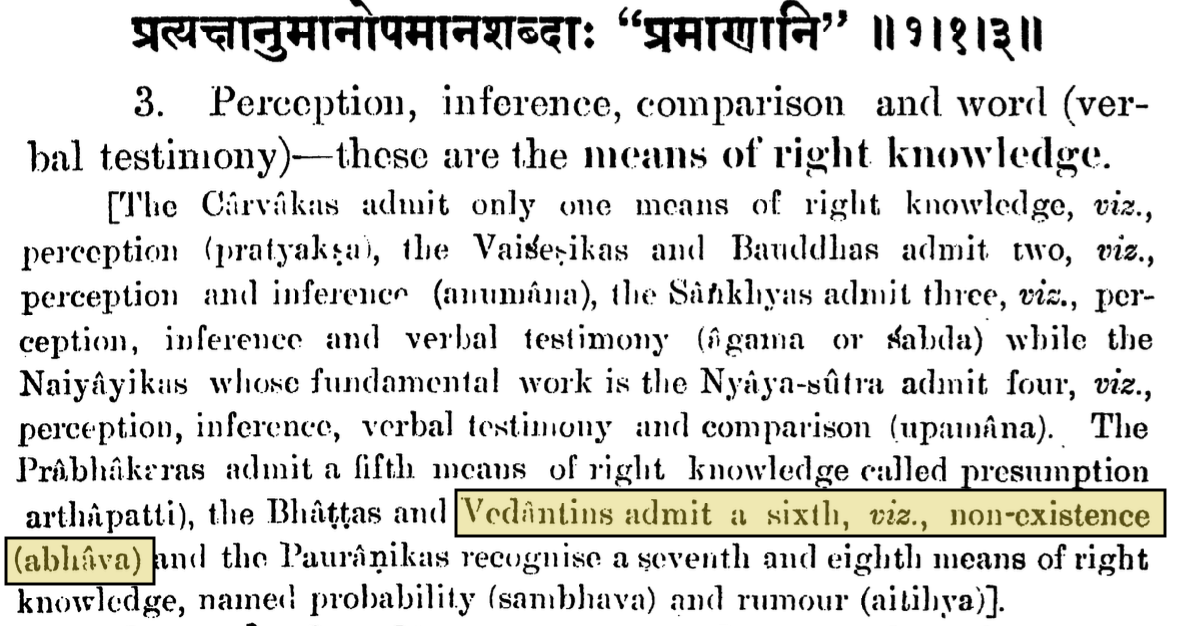
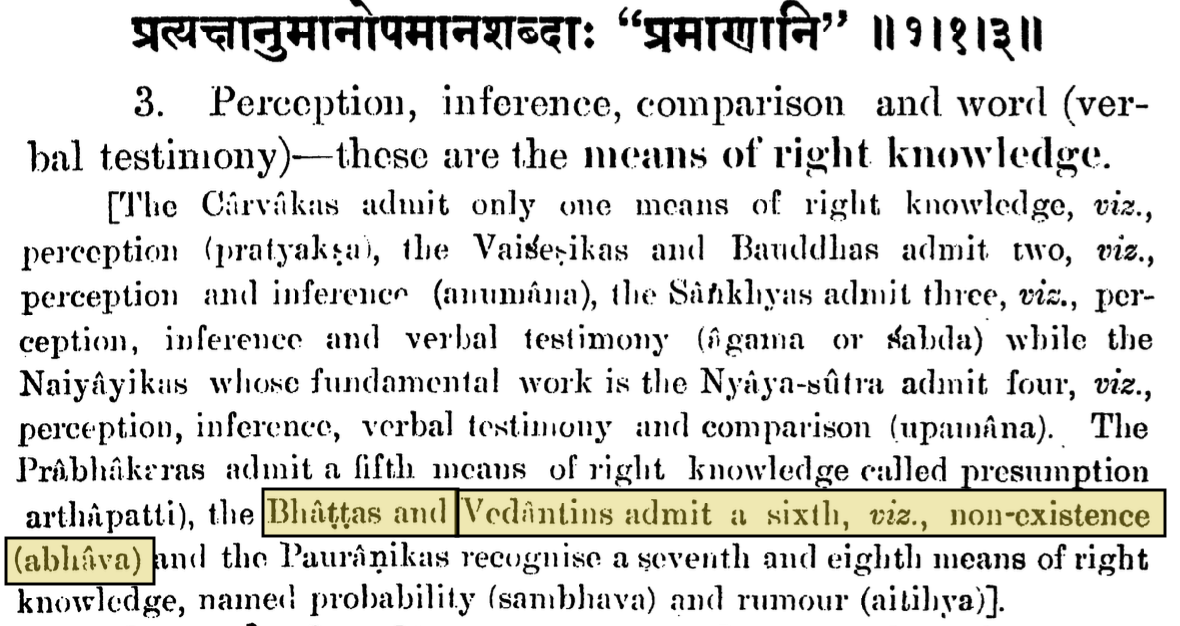
Add Bhatta school

Changed region(s): [[0.2136, 0.7588, 0.3966, 0.8802]]

diff --git a/content/blog/062/062.md b/content/blog/062/062.md
@@ -6,15 +6,15 @@ const draft = false;
 ---
 
 In this post, we make a note of non-existence[1] (*abhava* in Sanskrit) being a
-means of knowledge in the Vedanta school of thought[2] from a commentary on the
-Nyaya Sutra[3].
+means of knowledge in the Bhatta[2] and Vedanta schools of thought[3] from a
+commentary on the Nyaya Sutra[4].
 
 We have extensively written and elaborated on the idea of non-existence being
 the origin of things because of how our mind works, i.e., our mind creates an
-abstract representation in order to analyze things[4][5]. This can be stated in
+abstract representation in order to analyze things[5][6]. This can be stated in
 another way: the non-existence of something can be a means of knowledge. We
 were pleasantly surprised to find this as a means of knowledge in Satish
-Chandra's commentary on the Nyaya Sutra[6]:
+Chandra's commentary on the Nyaya Sutra[7]:
 
 ![alt](./nyaya_sutra_screenshot.png)
 
@@ -23,8 +23,9 @@ being a source of knowledge from Satish Chandra's commentary on the Nyaya
 Sutra.
 
 [1] https://en.wikipedia.org/wiki/Abhava <br>
-[2] https://en.wikipedia.org/wiki/Vedanta <br>
-[3] https://en.wikipedia.org/wiki/Ny%C4%81ya_S%C5%ABtras <br>
-[4] https://m-chaturvedi.github.io/blog/017/ <br>
-[5] https://m-chaturvedi.github.io/blog/040/ <br>
-[6] https://archive.org/details/TheNyayaSutrasOfGotama/page/2/mode/2up
+[2] https://web.archive.org/web/20260821094959/https://www.britannica.com/topic/Indian-philosophy/Purva-Mimamsa-the-Bhatta-and-Prabhakara-schools#ref314717#ref314717 <br>
+[3] https://en.wikipedia.org/wiki/Vedanta <br>
+[4] https://en.wikipedia.org/wiki/Ny%C4%81ya_S%C5%ABtras <br>
+[5] https://m-chaturvedi.github.io/blog/017/ <br>
+[6] https://m-chaturvedi.github.io/blog/040/ <br>
+[7] https://archive.org/details/TheNyayaSutrasOfGotama/page/2/mode/2up
